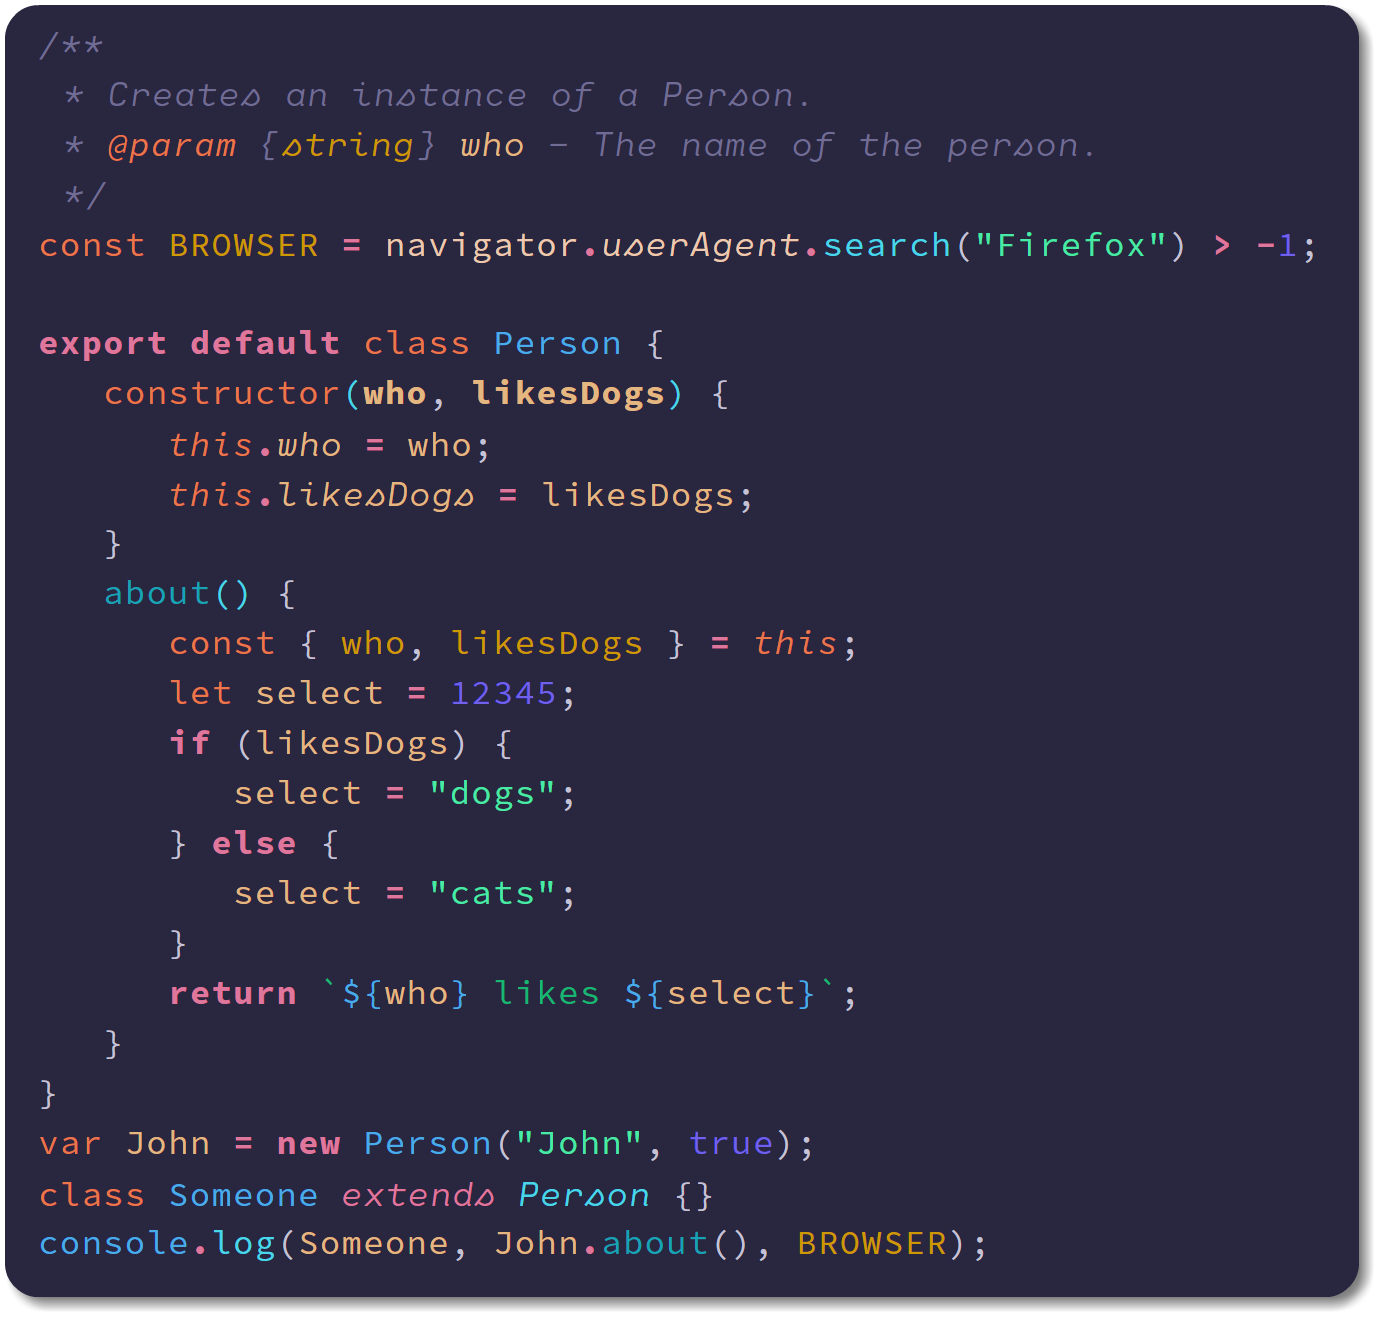
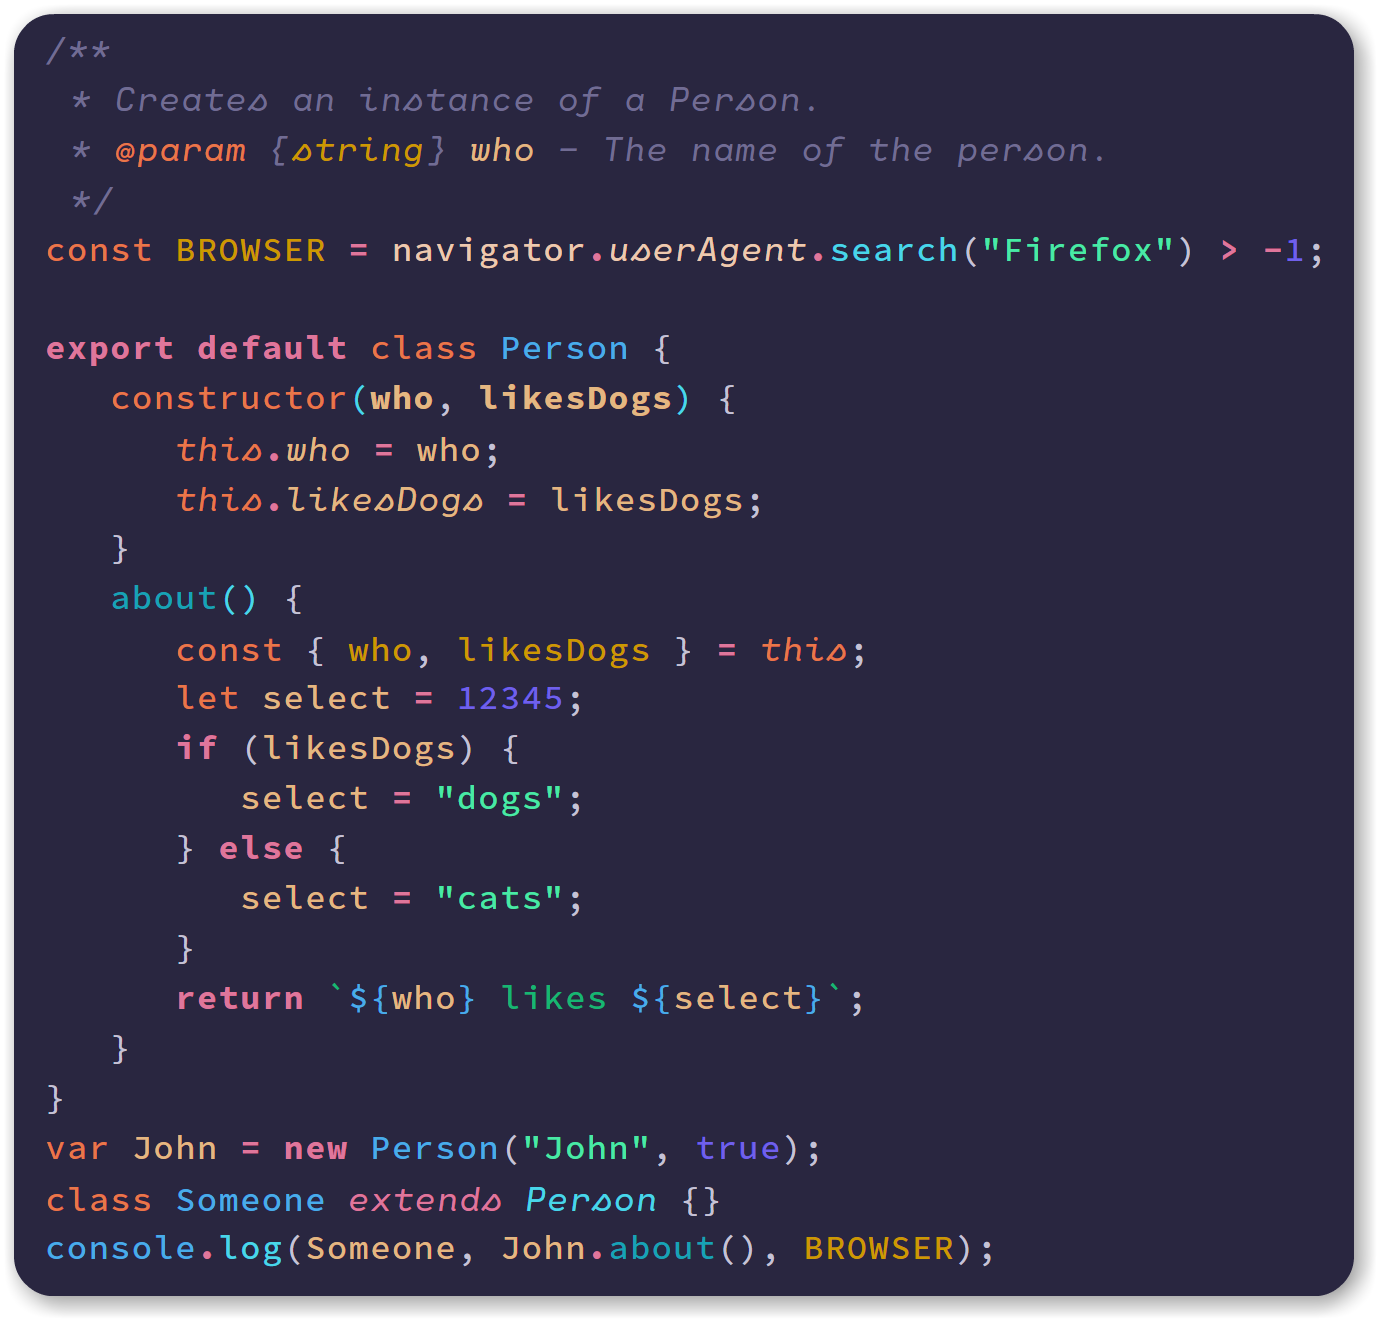
4.2.0

diff --git a/vscodecustom.css b/vscodecustom.css
@@ -7,11 +7,11 @@ you can comment out this part if you don't want to change the default font for t
 }
 
 /* /// REQUIRED ///
-scope selectors for italics
+classes for italics
 */
 .mtk1.mtki,
-.mtk4.mtki,
 .mtk3.mtki,
+.mtk4.mtki,
 .mtk5.mtki,
 .mtk6.mtki,
 .mtk8.mtki,
@@ -20,6 +20,7 @@ scope selectors for italics
 .mtk11.mtki,
 .mtk12.mtki,
 .mtk13.mtki,
+.mtk14.mtki,
 .mtk16.mtki,
 .mtk18.mtki {
    font-feature-settings: "ss01";

diff --git a/README.md b/README.md
@@ -6,11 +6,11 @@
 
 ## Noctis
 
-![Noctis Screenshot](https://github.com/liviuschera/noctis/raw/master/images/noctis.png)
+![Noctis Screenshot](images/noctis.png)
 
 ## Noctis Azureus
 
-![Noctis Azureus Screenshot](https://github.com/liviuschera/noctis/raw/master/images/noctisAzureus.png)
+![Noctis Azureus Screenshot](images/noctisAzureus.png)
 
 ## Noctis Lux
 
@@ -64,10 +64,36 @@ The **Noctis Lux** light theme's background is a very saturated very light warm 
 
 I plan on adding support for new languages in the upcomming releases. Please feel free to open an issue if you'd like a new language supported or if you think something is off.
 
-## **Font** used in the screenshots
+## **The Font** used in the screenshots
 
 The font in the screenshots are actually 2 fonts glued together with [Custom CSS](https://marketplace.visualstudio.com/items?itemName=be5invis.vscode-custom-css). For normal style I used [Hasklig](https://github.com/i-tu/Hasklig) and for italics [Cartograph Mono CF](http://connary.com/cartograph.html).
 I think there is a beautiful synergy between the two fonts and they intertwine naturally together.
+
+### "How did you do it?" [#2](https://github.com/liviuschera/noctis/issues/2)
+
+The walkthrough is for Windows. I assume that for Unix and MacOS you would have to change only the path.
+
+1. IMPORTANT: _Run as aministrator_ VS Code
+2. install [Custom CSS and JS Loader](https://marketplace.visualstudio.com/items?itemName=be5invis.vscode-custom-css)
+3. download or copy the content of [customvscode.css](https://github.com/liviuschera/noctis/blob/master/vscodecustom.css)
+4. copy the file in `Users\yourusername\customvscode.css`. This is what I have on my system `c:\Users\liviuschera\customvscode.css`
+5. In `settings.json` add:
+   ```json
+     "editor.fontFamily": "Hasklig",
+     "vscode_custom_css.imports":
+       [
+         "file://C:/Users/yourusername/vscodecustom.css"
+       ],
+   ```
+6. press `F1`
+7. Select `Enable Custom CSS and JS`
+8. Reload VS Code (it doesn't have to be in administrator mode)
+
+> NOTES:
+>
+> -  if VS Code complains about that it is corrupted, simply click “Don't show again”.
+> -  every time after VS Code is updated or you change the configuration, please re-enable Custom CSS
+> -  make sure that you comment out the optional CSS code if you don't want to change the UI's default font.
 
 ## Syntax colors
 

diff --git a/CHANGELOG.md b/CHANGELOG.md
@@ -1,8 +1,16 @@
 # Change Log
 
+## **4.2.0**
+
+-  fixed [#5](https://github.com/liviuschera/noctis/issues/5)
+-  added new colors for the border on the top of modified (dirty) active/inactive/unfocused active/unfocused inactive tabs in an active/inactive/unfocused active/unfocused inactive group.
+-  changed editor's tab inactive top border to match the active border
+-  removed unnecessary color settings
+-  updated README with how to install the fonts I use in the screenshots
+
 ## **4.1.0**
 
-- _Noctis Uva_  &rarr; improved scrollbar controls
+-  _Noctis Uva_ &rarr; improved scrollbar controls
 
 ## **4.0.0**
 
